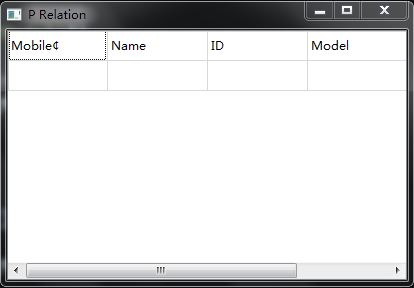
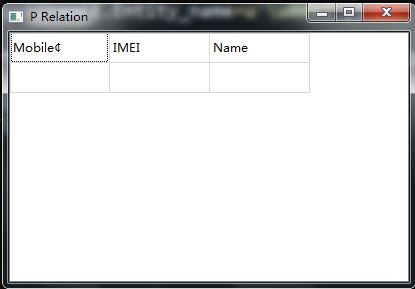
modify titiles

Changed region(s): [[0.0, 0.0, 1.0, 1.0]]

diff --git a/dboo_RMT.py b/dboo_RMT.py
@@ -143,7 +143,7 @@ class Relation(object):
 		tableItem 	= QTableWidgetItem()
 
 		# initiate table
-		table.setWindowTitle("Associative Graph Relation")
+		table.setWindowTitle("Associative Relation")
 		table.resize(400, 250)
 		table.setRowCount(2)
 		table.setColumnCount(3)
@@ -151,7 +151,7 @@ class Relation(object):
 		# set data
 		for a in A_list:
 			for n in a:
-				table.setItem(0, a.index(n), QTableWidgetItem(n))
+				table.setItem(0, a.index(n), QTableWidgetItem(n+u'\u00a2'))
 		# table.setItem(0,0, QTableWidgetItem("Item (1,1)"))
 		# table.setItem(0,1, QTableWidgetItem("Item (1,2)"))
 		# table.setItem(1,0, QTableWidgetItem("Item (2,1)"))
